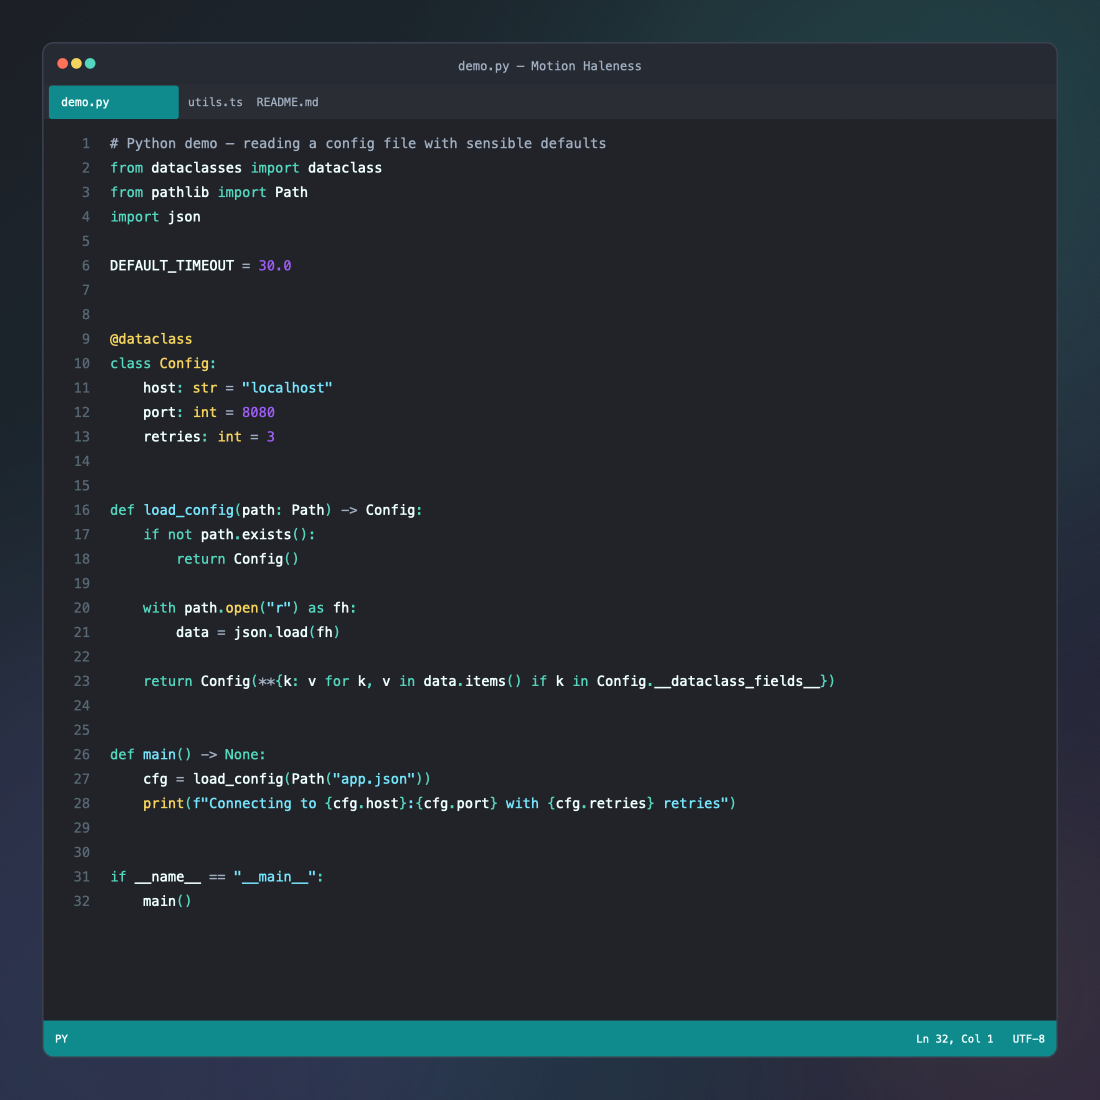
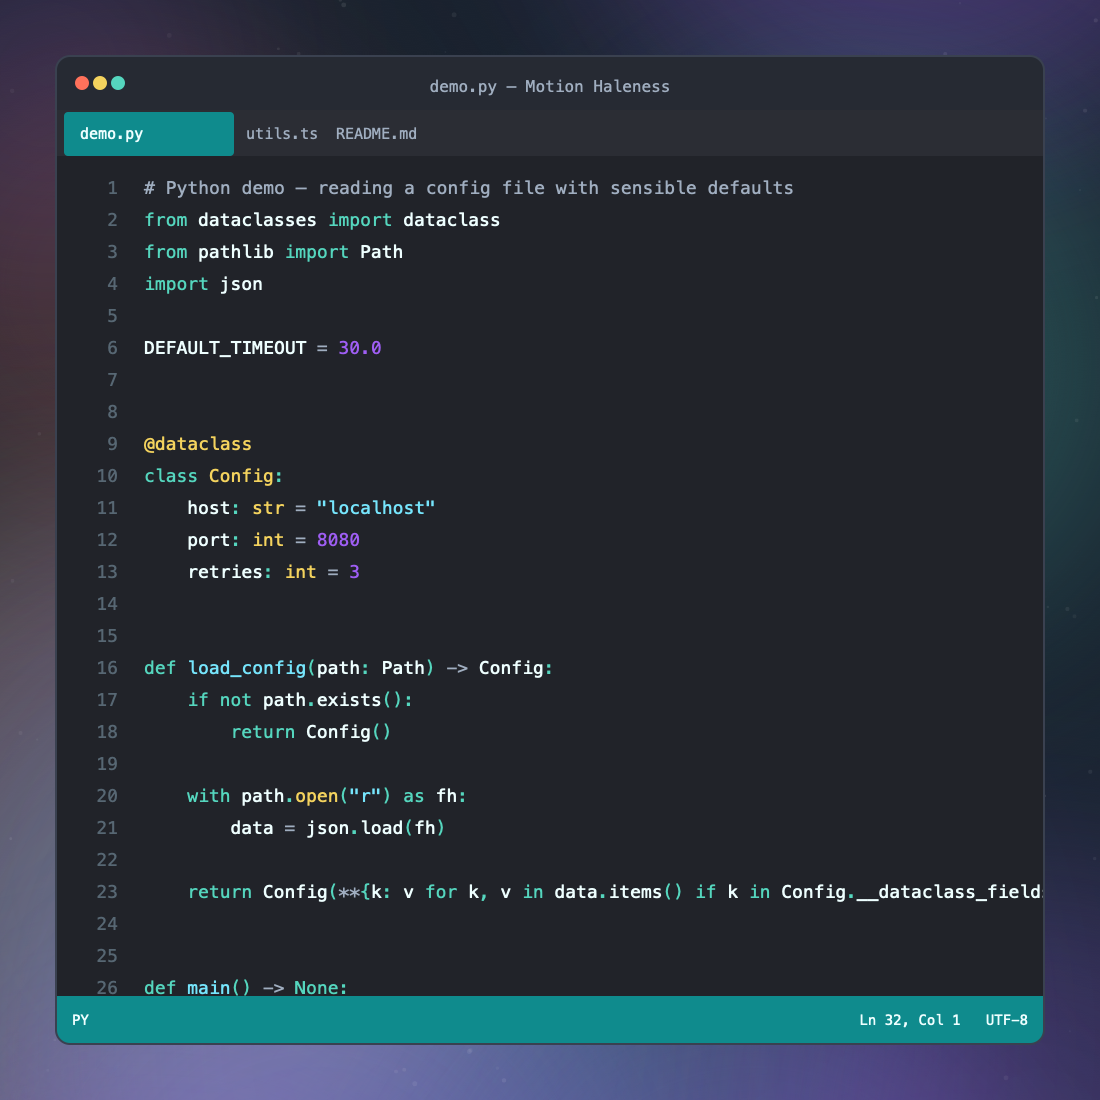
continuous theme-color background strip across screenshots

diff --git a/scripts/generate-screenshots.js b/scripts/generate-screenshots.js
@@ -140,11 +140,68 @@ function splitByChar(text, color) {
   return out;
 }
 
-const W = 1440;
-const H = 1440;
+const W = 1100;
+const H = 1100;
 const FONT = "Menlo, Monaco, monospace";
 
-function buildSvg(langLabel, fileName, code) {
+const ORDER = ["ts", "tsx", "py", "go", "rs", "js", "html", "css", "sql", "json", "md"];
+const STRIP_H = ORDER.length * H;
+const BG_PALETTE = ["#55D6BE", "#9F5EF4", "#F4D35E", "#FF715B", "#76E5FC"];
+
+function mulberry32(a) {
+  return function () {
+    a |= 0;
+    a = (a + 0x6d2b79f5) | 0;
+    let t = Math.imul(a ^ (a >>> 15), 1 | a);
+    t = (t + Math.imul(t ^ (t >>> 7), 61 | t)) ^ t;
+    return ((t ^ (t >>> 14)) >>> 0) / 4294967296;
+  };
+}
+
+const rng = mulberry32(0xc0ffee);
+const blobs = [];
+for (let i = 0; i < 88; i++) {
+  blobs.push({
+    x: rng() * W,
+    y: rng() * STRIP_H,
+    r: 170 + rng() * 260,
+    color: BG_PALETTE[Math.floor(rng() * BG_PALETTE.length)],
+    opacity: 0.12 + rng() * 0.11,
+  });
+}
+const dots = [];
+for (let i = 0; i < 2600; i++) {
+  dots.push({
+    x: rng() * W,
+    y: rng() * STRIP_H,
+    r: 1 + rng() * 1.6,
+    opacity: 0.04 + rng() * 0.05,
+  });
+}
+
+function backgroundFragment(idx) {
+  const y0 = idx * H;
+  const y1 = (idx + 1) * H;
+  const parts = [];
+  parts.push(`<linearGradient id="strip" x1="0" y1="0" x2="0" y2="1">
+    <stop offset="0" stop-color="#161a24"/>
+    <stop offset="0.3" stop-color="#1a2633"/>
+    <stop offset="0.62" stop-color="#292039"/>
+    <stop offset="1" stop-color="#132a2e"/>
+  </linearGradient>`);
+  parts.push(`<rect x="0" y="0" width="${W}" height="${STRIP_H}" fill="url(#strip)"/>`);
+  for (const b of blobs) {
+    if (b.y < y0 - 480 || b.y > y1 + 480) continue;
+    parts.push(`<circle cx="${b.x.toFixed(1)}" cy="${b.y.toFixed(1)}" r="${b.r.toFixed(1)}" fill="${b.color}" opacity="${b.opacity.toFixed(3)}" filter="url(#blurB)"/>`);
+  }
+  for (const d of dots) {
+    if (d.y < y0 - 2 || d.y > y1 + 2) continue;
+    parts.push(`<circle cx="${d.x.toFixed(1)}" cy="${d.y.toFixed(1)}" r="${d.r.toFixed(1)}" fill="#ffffff" opacity="${d.opacity.toFixed(3)}"/>`);
+  }
+  return `<g transform="translate(0, ${-y0})">${parts.join("\n")}</g>`;
+}
+
+function buildSvg(langLabel, fileName, code, idx) {
   const highlighted = hljs.highlight(code, { language: LANGS[langLabel] }).value;
   const lines = [];
   let line = [];
@@ -180,22 +237,9 @@ function buildSvg(langLabel, fileName, code) {
 
   const parts = [];
   parts.push(`<svg xmlns="http://www.w3.org/2000/svg" width="${W}" height="${H}">`);
-  parts.push(`<defs><linearGradient id="bg" x1="0" y1="0" x2="1" y2="1">
-  <stop offset="0" stop-color="#14171d"/>
-  <stop offset="0.5" stop-color="#13262f"/>
-  <stop offset="1" stop-color="#241b35"/>
-</linearGradient>
-<filter id="blurT" x="-60%" y="-60%" width="220%" height="220%"><feGaussianBlur stdDeviation="150"/></filter>
-<filter id="blurP" x="-60%" y="-60%" width="220%" height="220%"><feGaussianBlur stdDeviation="190"/></filter>
-<filter id="blurY" x="-60%" y="-60%" width="220%" height="220%"><feGaussianBlur stdDeviation="120"/></filter>
-<filter id="grain"><feTurbulence type="fractalNoise" baseFrequency="0.9" numOctaves="2" stitchTiles="stitch"/><feColorMatrix type="matrix" values="0 0 0 0 1 0 0 0 0 1 0 0 0 0 1 0 0 0 0.07 0"/></filter>
+  parts.push(`<defs><filter id="blurB" x="-70%" y="-70%" width="240%" height="240%"><feGaussianBlur stdDeviation="90"/></filter>
 <clipPath id="win"><rect x="${winX}" y="${winY}" width="${winW}" height="${winH}" rx="${RADIUS}"/></clipPath></defs>`);
-  parts.push(`<rect width="${W}" height="${H}" fill="url(#bg)"/>`);
-  parts.push(`<circle cx="${Math.round(W * 0.82)}" cy="${Math.round(H * 0.16)}" r="420" fill="#55D6BE" opacity="0.10" filter="url(#blurT)"/>`);
-  parts.push(`<circle cx="${Math.round(W * 0.14)}" cy="${Math.round(H * 0.86)}" r="460" fill="#9F5EF4" opacity="0.12" filter="url(#blurP)"/>`);
-  parts.push(`<circle cx="${Math.round(W * 0.5)}" cy="${Math.round(H * 0.97)}" r="300" fill="#0F8B8D" opacity="0.10" filter="url(#blurT)"/>`);
-  parts.push(`<circle cx="${Math.round(W * 0.92)}" cy="${Math.round(H * 0.9)}" r="220" fill="#F4D35E" opacity="0.07" filter="url(#blurY)"/>`);
-  parts.push(`<rect width="${W}" height="${H}" filter="url(#grain)"/>`);
+  parts.push(backgroundFragment(idx));
   parts.push(`<g clip-path="url(#win)">`);
 
   // title bar
@@ -271,12 +315,11 @@ function buildSvg(langLabel, fileName, code) {
 }
 
 fs.mkdirSync(OUT_DIR, { recursive: true });
-for (const file of fs.readdirSync(EXAMPLES_DIR)) {
-  const ext = path.extname(file).slice(1);
-  if (!LANGS[ext]) continue;
+for (const ext of ORDER) {
+  const file = `demo.${ext}`;
   const code = fs.readFileSync(path.join(EXAMPLES_DIR, file), "utf8");
   const name = path.basename(file, path.extname(file));
-  const svg = buildSvg(ext, file, code);
+  const svg = buildSvg(ext, file, code, ORDER.indexOf(ext));
   const out = path.join(OUT_DIR, `${name}-${ext}.svg`);
   fs.writeFileSync(out, svg);
   console.log(`wrote ${out}`);
